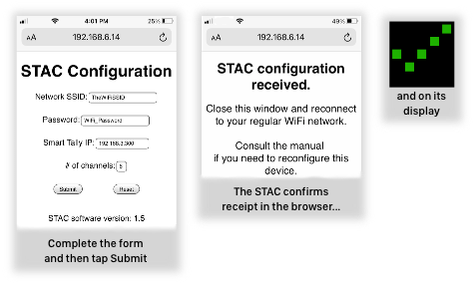
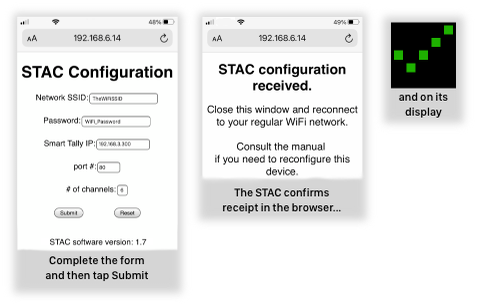
Add details on selecting the Roland port

diff --git a/manual/STAC Communications.md b/manual/STAC Communications.md
@@ -1,0 +1,41 @@
+# STAC Communications
+
+##Introduction
+
+Short techie document describing the way a STAC communicates with a Roland device using the Smart Tally protocol.
+
+This is only relevant if you are using a STAC in an emulated environment. That is where the STAC is not communicating with a physical Roland device but is operating in a system that emulates a Roland device, using the Smart Tally protocol.
+
+## Initiation
+
+When using a smart device or computer with a full browser implementation, the initial connection sequence to the Roland switch via that devices' web browser will cause the Roland switch to send a web page containing a set of scripts used by the browser allowing the user to select a specific tally channel to monitor and for subsequent status requests to the Roland switch.
+
+The STAC, having no capacity to run the scripts sent by the Roland switch, bypasses that initial initialization sequence. It instead establishes a connection to the Roland switch and them immediately starts to poll the Roland switch for the tally status of the channel selected by the user during setup of the STAC. 
+
+## STAC Status Inquiry
+
+When operating, the STAC continuously polls the Roland switch by sending to it an ASCII character string in the following format:
+
+ `GET /tally/[number]/status`  
+ followed by a `<return>` and a `<newline>` character.
+ 
+Here, `[number]` is the ASCII integer representation of tally channel number of the Roland device for which status is being requested, `1` to `8`.
+ 
+This string is sent to the IP address and port number specified by the user when the STAC is configured via a web browser. Refer to the *STAC Users Guide.md* in this repository.
+
+## Expected Response
+
+The STAC is expecting a response to a status inquiry to be an ASCII character string that is exactly one of: 
+ 
+`onair`  
+`selected`  
+`unselected`  
+
+With no `<return>` or `<newline>` characters added.
+
+Any other response will cause the STAC to display an error state as described in the *Troubleshooting* section of the *STAC Users Guide.md*.
+
+---
+###Revision History
+**2021-04-05:** First release.
+
